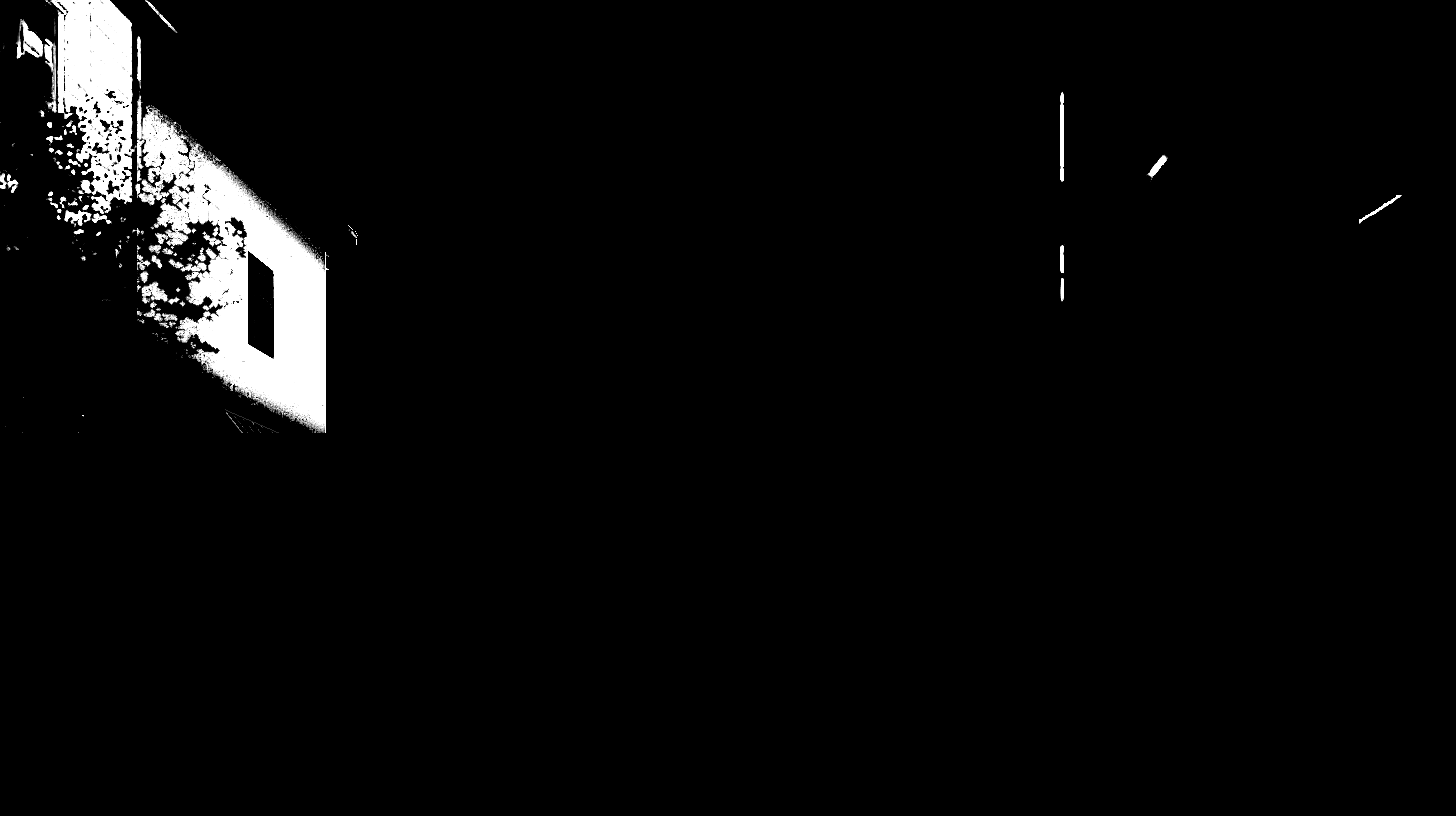
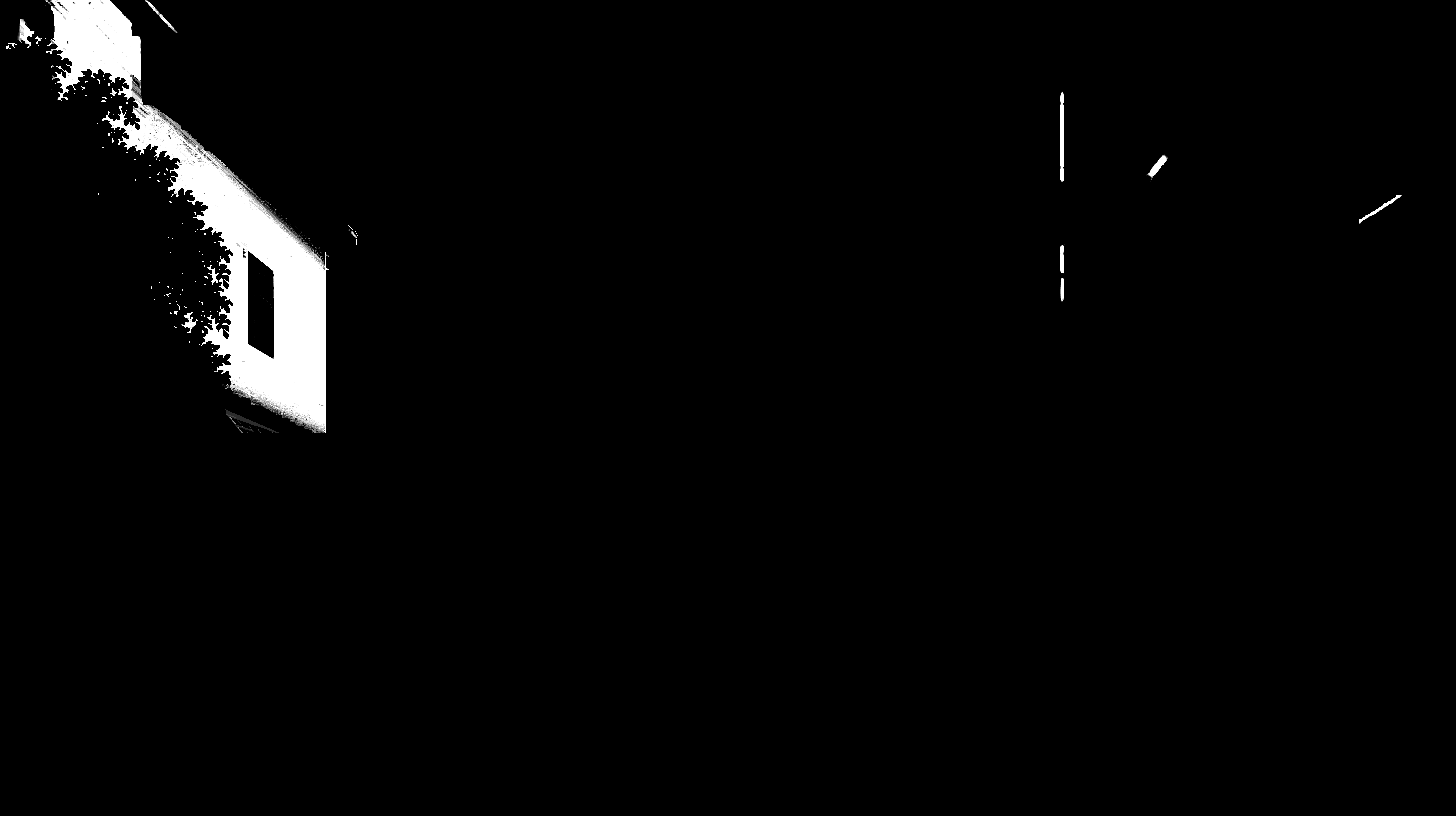
Arbre devant le dojo remplacé : nouvel arbre et buisson, mur et shoji refaits (branche de travail)
Le tronc est hors cadre à gauche ; la cime entre dans la scène au-dessus de la
maison. Le buisson, au premier plan dans le coin, a le pied coupé par les bords
gauche et bas. L'ancien feuillage est entièrement retiré. Derrière, le mur
éclairé est refait le long de ses planches, les shoji depuis leurs propres
cases et la planche du haut du dojo le long de sa pente. Fait par
tools/tree_bc.py. Pas encore vérifié dans toutes les heures et tous les modes.

Changed region(s): [[0.0, 0.0, 0.1854, 0.4596], [0.1545, 0.4596, 0.2163, 0.5208]]

diff --git a/tools/tree_bc.py b/tools/tree_bc.py
@@ -1,0 +1,242 @@
+#!/usr/bin/env python3
+"""The big tree on the left, in front of the house and the dojo (B+C), replaced.
+
+    python3 tools/tree_bc.py      (after tools/tree_a.py; it takes its zone, x < 326, back from commit aa383bc each time)
+
+The old tree's crown hung over the house's front and its lit side wall, its bush over the dojo's shoji. The new one
+(tools/src/tree_bc.jpg, a pixel-art tree drawn on white) stands just off the frame on the left: its trunk is out of
+the picture, its crown comes in over the house as the old one did, a second copy of the drawing behind it in shade fills
+under it (its own leaves, no sky, no old leaves); its bush is in the bottom left corner, two copies of the drawing's bush,
+the lower one cut by the frame's bottom (its foot out of the picture), the upper one behind it.
+What showed through the old leaves and is now in the open is rebuilt from the painting itself: the lit side wall along
+its planks' lines (they run to the street's vanishing point, about (669, 568)), the shoji and the stone pillar from their
+own cells above (the shoji's rails 42 px apart), the pavement from its own row further right. In layer_city_off,
+street_unlit, street_sun and night_far, each from the same source pixel. Colours: the old tree's own, by lightness (so
+every hour grades it as it graded the old one), its power-cut change by place. Needs git, Pillow, numpy and scipy.
+"""
+import io
+import os
+import subprocess
+import numpy as np
+from PIL import Image, ImageDraw
+from scipy import ndimage as ndi
+
+ROOT = os.path.dirname(os.path.dirname(os.path.abspath(__file__)))
+A = lambda p: os.path.join(ROOT, 'assets', p)
+BEFORE = 'aa383bc'
+SRC = os.path.join(ROOT, 'tools', 'src', 'tree_bc.jpg')
+X_MAX = 326                                        # its zone: left of the drinks shop's tree (tools/tree_a.py)
+GRID = 2.37                                        # the source's pixel (in its pixels)
+CROWN = (1.55, -95, 25)                            # the crown: scene pixels per source pixel, its left, its top (y)
+CROWN_ROWS = 700                                   # (the source's rows above this: the crown; below, the bare trunk and the bush)
+DEEP = (0, 50, 0.62)                                # its leaves further in: the crown again, moved (x, y), in shade
+BUSH_ROWS = 860                                    # (the source's rows below this: the bush at the trunk's foot, its wood left out)
+BUSHES = [(2.5, -70, 12, True), (2.5, -64, 12, False)]     # the bush, near: scale, left, how far its foot goes under the
+                                                   # frame, mirrored (the back one first)
+SHOJI_STEP, SHOJI_FOOT = 42, 702                   # the shoji's rails, one under the other; their foot
+FASCIA = lambda x: 455 + 0.23 * x                   # the dojo's top board, its upper edge (lit, under the crown)
+VP = (669.0, 568.0)                                # the street's vanishing point (the side wall's planks run to it)
+OLD_CROWN = [(0, 70), (60, 72), (92, 98), (132, 108), (172, 148), (208, 198), (236, 248), (238, 312), (220, 362),
+             (208, 410), (178, 440), (132, 462), (60, 472), (0, 472)]
+OLD_BUSH = [(0, 586), (30, 590), (56, 614), (72, 660), (84, 704), (112, 738), (124, 800), (124, 816), (0, 816)]
+OUT = os.environ.get('OUT')
+
+
+def load(p, mode='RGBA', at=None):
+    data = subprocess.run(['git', 'show', f'{at}:assets/{p}'], cwd=ROOT, capture_output=True, check=True).stdout if at else open(A(p), 'rb').read()
+    return np.asarray(Image.open(io.BytesIO(data)).convert(mode)).astype(float)
+
+
+def save(arr, p, mode):
+    path = os.path.join(OUT, p) if OUT else A(p)
+    Image.fromarray(np.clip(np.round(arr), 0, 255).astype(np.uint8), mode).save(path, 'WEBP', lossless=True, quality=100, method=6, exact=True)
+
+
+def poly(pts, H, W):
+    im = Image.new('L', (W, H), 0); ImageDraw.Draw(im).polygon(pts, fill=255); return np.asarray(im) > 0
+
+
+def drawing():
+    src = Image.open(SRC).convert('RGB'); a = np.asarray(src).astype(float)
+    fg = a @ [0.299, 0.587, 0.114] < 150                                     # (the white ground and its light halo out)
+    fg = ndi.binary_opening(fg, structure=np.ones((2, 2)))
+    lab, n = ndi.label(fg); fg = np.isin(lab, 1 + np.where(ndi.sum(fg, lab, range(1, n + 1)) > 40)[0])
+    # the ground and the gaps painted with the nearest leaf's colour: no white bleeding into the leaves round them when scaled
+    _, (iy, ix) = ndi.distance_transform_edt(~fg, return_indices=True)
+    src = Image.fromarray(a[iy, ix].astype(np.uint8))
+    return src, fg
+
+
+def part(src, fg, rows, scale, mirror=False, leaves_only=False):
+    """A part of the drawing (rows: slice) at a scale: (rgb, alpha); leaves_only: without the trunk's brown wood."""
+    s = scale / GRID; im = src.crop((0, rows.start, src.width, rows.stop)); m = fg[rows].copy()
+    if leaves_only:
+        q = np.asarray(im).astype(float); m &= ~(q[..., 0] >= q[..., 2] - 4)     # (the bark: brown or grey, not the leaves' teal)
+        lab, n = ndi.label(m); m = lab == 1 + np.argmax(ndi.sum(m, lab, range(1, n + 1)))
+    ys, xs = np.where(m); im = im.crop((xs.min(), ys.min(), xs.max() + 1, ys.max() + 1)); m = m[ys.min():ys.max() + 1, xs.min():xs.max() + 1]
+    w, h = round(im.width * s), round(im.height * s)
+    rgb = np.asarray(im.resize((w, h), Image.LANCZOS)).astype(float)
+    al = np.asarray(Image.fromarray((m * 255).astype(np.uint8)).resize((w, h), Image.BOX)) > 127
+    lab, n = ndi.label(al); al = np.isin(lab, 1 + np.where(ndi.sum(al, lab, range(1, n + 1)) > 12)[0])
+    return (rgb[:, ::-1], al[:, ::-1]) if mirror else (rgb, al)
+
+
+def put(mask, col, rgb, al, x0, y0):
+    H, W = mask.shape; h, w = al.shape
+    ys, xs = slice(max(0, y0), min(H, y0 + h)), slice(max(0, x0), min(W, x0 + w))
+    sub = al[ys.start - y0:ys.stop - y0, xs.start - x0:xs.stop - x0]
+    mask[ys, xs] |= sub; col[ys, xs][sub] = rgb[ys.start - y0:ys.stop - y0, xs.start - x0:xs.stop - x0][sub]
+
+
+def recolour(rgb, al, ref):
+    """The drawing's pixels in the reference pixels' colours, by lightness (rank for rank)."""
+    out = rgb.copy(); Ls = rgb @ [0.299, 0.587, 0.114]; RL = ref @ [0.299, 0.587, 0.114]
+    qs = np.linspace(0, 100, 101); L2 = np.interp(Ls[al], np.percentile(Ls[al], qs), np.percentile(RL, qs))
+    bins = np.linspace(RL.min(), RL.max(), 24); idx = np.digitize(RL, bins); cent, cols = [], []
+    for k in range(1, len(bins) + 1):
+        m = idx == k
+        if m.sum() >= 8: cent.append(RL[m].mean()); cols.append(ref[m].mean(0))
+    cent, cols = np.array(cent), np.array(cols)
+    out[al] = np.stack([np.interp(L2, cent, cols[:, ch]) for ch in range(3)], -1)
+    return out
+
+
+def main():
+    cur = [load('layer_city_off.webp'), load('street_unlit.webp'), load('night_far.webp', 'RGB'), load('street_sun.webp', 'RGB')]
+    old = [load('layer_city_off.webp', at=BEFORE), load('street_unlit.webp', at=BEFORE), load('night_far.webp', 'RGB', at=BEFORE),
+           load('street_sun.webp', 'RGB', at=BEFORE)]
+    for c, o in zip(cur, old): c[:, :X_MAX] = o[:, :X_MAX]                   # (its zone as painted, every time)
+    city, unlit, nf, sun = cur
+    H, W = city.shape[:2]; yy, xx = np.mgrid[0:H, 0:W]
+    zone = xx < X_MAX
+
+    # the old tree: its crown over the house, its leaves on the lit side wall (holes in the low sun's light there), its bush
+    # over the shoji (holes in their light)
+    lit = sun[:, :, 0] > 0
+    wall = ndi.binary_fill_holes(ndi.binary_closing(lit, structure=np.ones((5, 5)), iterations=3)) & zone
+    window = (xx >= 243) & (xx <= 278) & (yy >= 248) & (yy <= 362)
+    Lc0 = city[:, :, :3] @ [0.299, 0.587, 0.114]
+    on_wall = wall & ~window & (yy < 440) & (~lit | (Lc0 < 24))                # (a leaf: out of the sun, or dark as no plank is)
+    on_wall |= ndi.binary_dilation(on_wall) & wall & ~window & (Lc0 < 34)      # (and its soft edge)
+    crown_old = (poly(OLD_CROWN, H, W) | on_wall) & zone
+    # (and its dark lower leaves, hanging over the shop's upper wall in the shade, right of that outline)
+    Lc = city[:, :, :3] @ [0.299, 0.587, 0.114]
+    dark = (Lc < 20) & (xx >= 90) & (xx < 235) & (yy >= 360) & (yy < 472) & ~lit
+    lab, n = ndi.label(dark | crown_old); touch = np.unique(lab[crown_old]); crown_old |= dark & np.isin(lab, touch[touch > 0])
+    lab, n = ndi.label(crown_old & ~poly(OLD_CROWN, H, W))
+    for i, sl in enumerate(ndi.find_objects(lab)):                            # (not the downpipe: long and thin)
+        m = lab[sl] == i + 1
+        if sl[0].stop - sl[0].start > 40 and sl[1].stop - sl[1].start <= 6: crown_old[sl][m] = False
+    glow = (city[:, :, :3] - unlit[:, :, :3]).max(-1) > 12
+    shoji = glow & (xx < 120) & (yy > 520) & (yy < 800)
+    panes = ndi.binary_fill_holes(ndi.binary_closing(shoji, structure=np.ones((5, 5)), iterations=3))
+    bush_old = (poly(OLD_BUSH, H, W) | (panes & ~shoji & (xx < 110) & (yy > 590))) & zone
+
+    # the new tree
+    src, fg = drawing()
+    rc = poly(OLD_CROWN, H, W) & (city[:, :, :3] @ [0.299, 0.587, 0.114] < 40) & (city[:, :, 3] > 200) & (city[:, :, 2] >= city[:, :, 0])
+    ref_c = city[rc][:, :3]                                                   # (its leaves in the shade: not those lit pink on the wall)
+    ref_b = city[poly(OLD_BUSH, H, W) & ~shoji & (city[:, :, 3] > 200)][:, :3]
+    sc, cx, cy = CROWN
+    rgb, al = part(src, fg, slice(0, CROWN_ROWS), sc); rgb = recolour(rgb, al, ref_c)
+    cm = np.zeros((H, W), bool); cc = np.zeros((H, W, 3)); put(cm, cc, rgb, al, cx, cy)
+    dm = np.zeros((H, W), bool); dc = np.zeros((H, W, 3)); put(dm, dc, rgb * DEEP[2], al, cx + DEEP[0], cy + DEEP[1])
+    bm = np.zeros((H, W), bool); bc = np.zeros((H, W, 3))
+    for s_, bx, by, mir in BUSHES:
+        r_, a_ = part(src, fg, slice(BUSH_ROWS, src.height), s_, mir, leaves_only=True); r_ = recolour(r_, a_, ref_b)
+        m_ = np.zeros((H, W), bool); c_ = np.zeros((H, W, 3)); put(m_, c_, r_, a_, bx, H - a_.shape[0] + by)
+        bm |= m_; bc[m_] = c_[m_]                                             # (the later one in front)
+    keep = (yy >= 476) & (yy < 560) & (xx < 240)                             # (the dojo's and the shop's signs: in front)
+    cm &= zone & ~keep; bm &= zone
+    low = np.where(cm.any(0), H - 1 - np.argmax(cm[::-1], 0), 0)            # (the crown's lowest leaf, column by column)
+    dm &= zone & ~keep & ~cm & (yy <= np.maximum(low[None, :], 0))          # (behind it: never lower than the crown itself)
+
+    # the old crown's leaves left in the shade, not under the new crown: its own leaves further in (the drawing again, in
+    # shade, at several places), in the old leaves' outline
+    low = np.where(cm.any(0), H - 1 - np.argmax(cm[::-1], 0), 0)
+    fill = crown_old & ~wall & ~cm & ~dm & ~keep & (xx >= 4) & ((yy <= low[None, :]) | ((Lc < 20) & ~((xx < 130) & (yy > FASCIA(xx) - 6))))
+    tex_m = np.zeros((H, W), bool); tex = np.zeros((H, W, 3))
+    for ox, oy in ((DEEP[0], DEEP[1]), (60, 70), (-40, 90), (110, 40), (20, 130)):
+        m_ = np.zeros((H, W), bool); c_ = np.zeros((H, W, 3)); put(m_, c_, rgb * DEEP[2], al, cx + ox, cy + oy)
+        new_ = m_ & ~tex_m; tex[new_] = c_[new_]; tex_m |= new_
+    fm = fill & tex_m; fc = tex
+    dark_rgb = np.median(ref_c[ref_c @ [0.299, 0.587, 0.114] < np.percentile(ref_c @ [0.299, 0.587, 0.114], 10)], 0)
+    fc[fill & ~tex_m] = dark_rgb * DEEP[2] / 0.62; fm = fill
+
+    # what shows again: rebuilt from the painting
+    out = [L.copy() for L in cur]
+    def copy(dst, sy, sx):
+        for L, O in zip(out, cur): L[dst] = O[sy, sx]
+    # the lit side wall: along its planks, toward the vanishing point, from the nearest pixel of it with no leaf
+    need = crown_old & wall & on_wall & ~cm & ~dm
+    clean = wall & lit & ~crown_old & (Lc0 >= 24)
+    ys, xs = np.where(need)
+    for y, x in zip(ys, xs):
+        dx, dy = VP[0] - x, VP[1] - y; n_ = np.hypot(dx, dy); dx, dy = dx / n_, dy / n_
+        for t in range(1, 200):
+            sx, sy = int(round(x + dx * t)), int(round(y + dy * t))
+            if sx >= X_MAX or sy >= H: break
+            if clean[sy, sx]:
+                for L, O in zip(out, cur): L[y, x] = O[sy, sx]
+                break
+    # the shoji, the pillar, the frame: from their cell above (the same column, one or two rails up)
+    need_b = bush_old & ~bm & (yy < SHOJI_FOOT) & (xx < 80)                  # (the shoji and their frame; the stone pillar right of
+                                                                              # them, in its own shade, stays as painted)
+    ys, xs = np.where(need_b)
+    for y, x in zip(ys, xs):
+        for k in range(1, 6):
+            sy = y - SHOJI_STEP * k
+            if sy < 540: break
+            if not bush_old[sy, x]:
+                for L, O in zip(out, cur): L[y, x] = O[sy, x]
+                break
+    # the dojo's top board under the crown (its lit edges between the old leaves): along its own lines, from its visible bits
+    band = crown_old & (xx < 130) & (yy > FASCIA(xx) - 6) & (yy < 476) & ~cm & ~dm & ~fill
+    seen = band & (Lc >= 20)
+    need_f = band & ~seen
+    for y, x in zip(*np.where(need_f)):
+        for t in range(1, 60):
+            for sgn in (1, -1):
+                sx, sy = x + sgn * t, int(round(y + sgn * t * 0.23))
+                if 0 <= sx < 130 and seen[sy, sx]:
+                    for L, O in zip(out, cur): L[y, x] = O[sy, sx]
+                    break
+            else: continue
+            break
+
+    # the pavement: from its own row further right
+    need_g = bush_old & ~bm & (yy >= 760) & (xx >= 80)
+    ys, xs = np.where(need_g)
+    for y, x in zip(ys, xs):
+        for sx in range(x + 1, X_MAX):
+            if not bush_old[y, sx]:
+                for L, O in zip(out, cur): L[y, x] = O[y, sx]
+                break
+    city, unlit, nf, sun = out
+
+    # the power cut: the old tree's own change there, by place
+    old_all = crown_old | bush_old
+    wt = ndi.gaussian_filter(old_all.astype(float), 6)
+    ratio = np.stack([ndi.gaussian_filter(np.where(old_all, (cur[1][:, :, ch] + 1) / (cur[0][:, :, ch] + 1), 0), 6) for ch in range(3)], -1) / np.maximum(wt, 1e-6)[..., None]
+    ratio = np.where(wt[..., None] > 0.02, np.clip(ratio, 0.3, 1.0), 1.0)
+    for m, c in ((fm, fc), (dm, dc), (cm, cc), (bm, bc)):
+        city[m, :3] = c[m]; city[m, 3] = 255
+        unlit[m, :3] = c[m] * ratio[m]; unlit[m, 3] = 255
+        nf[m] = 0; sun[m] = 0
+    # (the old crown's last pixels at the frame's edge, out of the drawing: the leaves next to them)
+    left = crown_old & ~cm & ~dm & ~wall & (xx < 4)
+    for y, x in zip(*np.where(left)):
+        for sx in range(x + 1, 12):
+            if cm[y, sx] or dm[y, sx]:
+                for L in out: L[y, x] = L[y, sx]
+                break
+    left = old_all & ~cm & ~dm & ~bm & ~fm & ~(need | need_b | need_g | need_f | seen) & ~(xx < 4) & ~(wall & lit)
+    if os.environ.get('LEFT'): np.save(os.environ['LEFT'], left)
+    save(city, 'layer_city_off.webp', 'RGBA'); save(unlit, 'street_unlit.webp', 'RGBA')
+    save(nf, 'night_far.webp', 'RGB'); save(sun, 'street_sun.webp', 'RGB')
+    print('crown', int(cm.sum()), '| behind it', int(dm.sum()), '| bush', int(bm.sum()), '| wall rebuilt', int(need.sum()),
+          '| shoji rebuilt', int(need_b.sum()), '| pavement', int(need_g.sum()), '| old pixels left as they were', int(left.sum()))
+
+
+if __name__ == '__main__':
+    main()

diff --git a/README.md b/README.md
@@ -17,6 +17,8 @@ assets/                 couches de l'illustration et sprites (WebP sans perte ; 
 sw.js                   le cache du navigateur : les fichiers versionnés (?v=) gardés d'une visite à l'autre
 tools/png2webp.py       PNG → WebP sans perte, pixel pour pixel vérifié, références mises à jour
 tools/fuji_aux.py        le masque exact du cerisier dans les calques du Fuji et le bord de sa pente (assets/fuji_aux.webp, boîte x 320..1016), pour l'aube
+tools/tree_a.py          remplace l'arbre entre le magasin de boissons et l'oden (dessin : tools/src/tree_a.jpg)
+tools/tree_bc.py         remplace le grand arbre devant la maison et le dojo, et son buisson (dessin : tools/src/tree_bc.jpg)
 tools/left_tree_trim.py  abaisse l'arbre de gauche sous le toit de l'oden (sa propre cime peinte redescendue, par touffes entières) et prolonge le flanc du Fuji derrière lui
 tools/cherry_gaps.py     voile les petits trous du cerisier (fuji_tree.webp) : le soir identique, plus de pois bleus le matin ni de taches la nuit
 tools/night_far_clean.py nettoie night_far.webp (pixels de la rue mis à tort dans un plan lointain : lampadaire, bord du feuillage, barrière)
